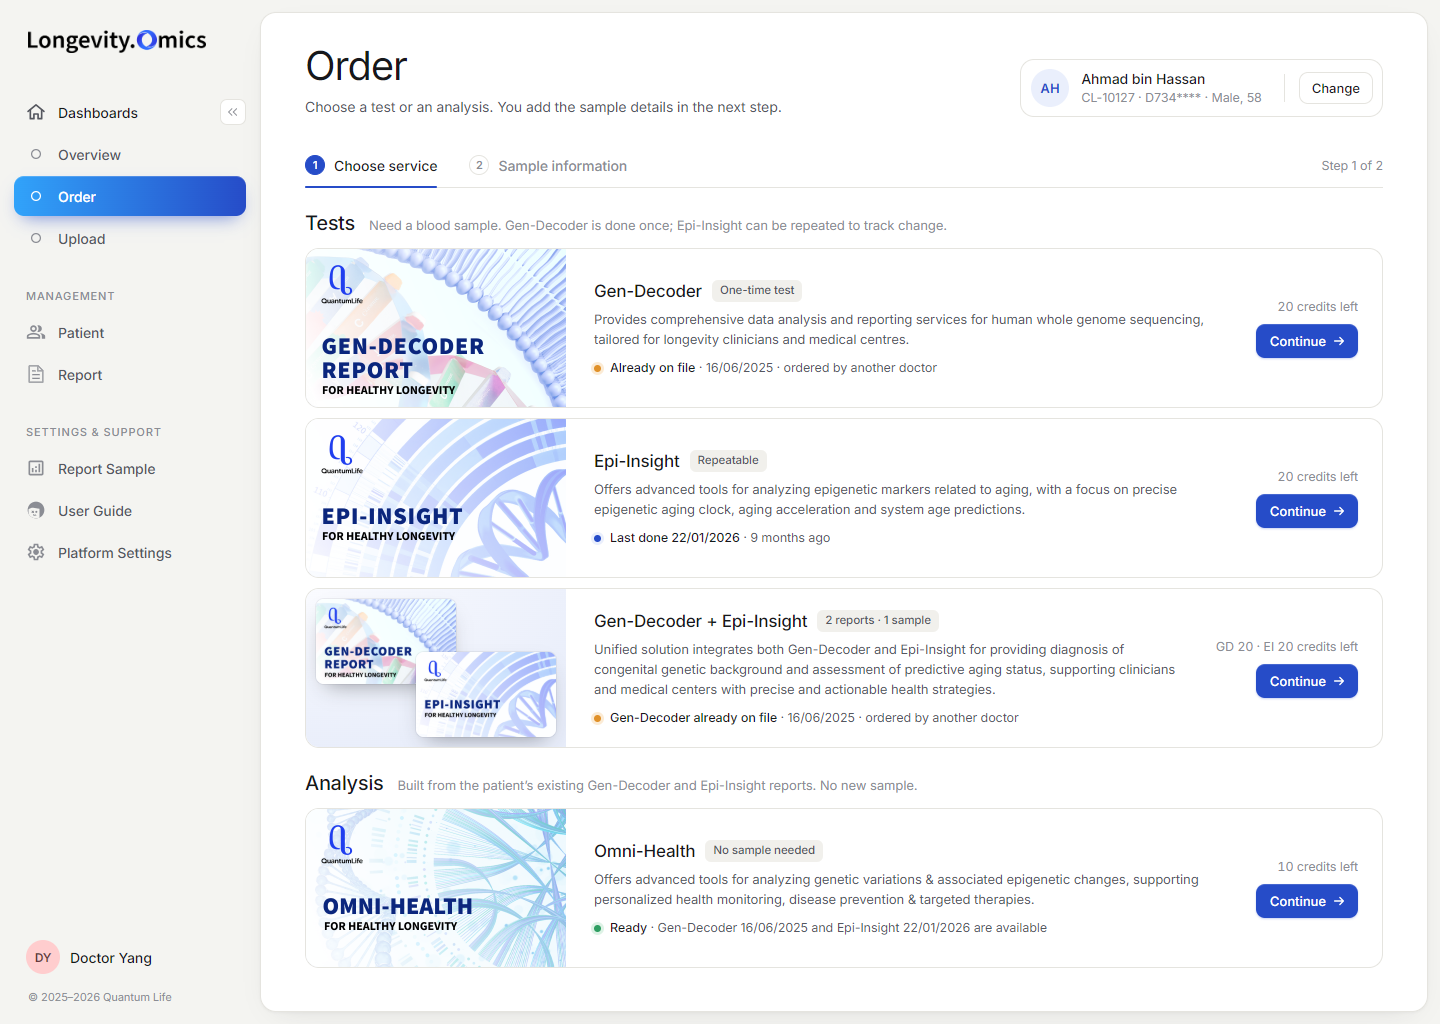
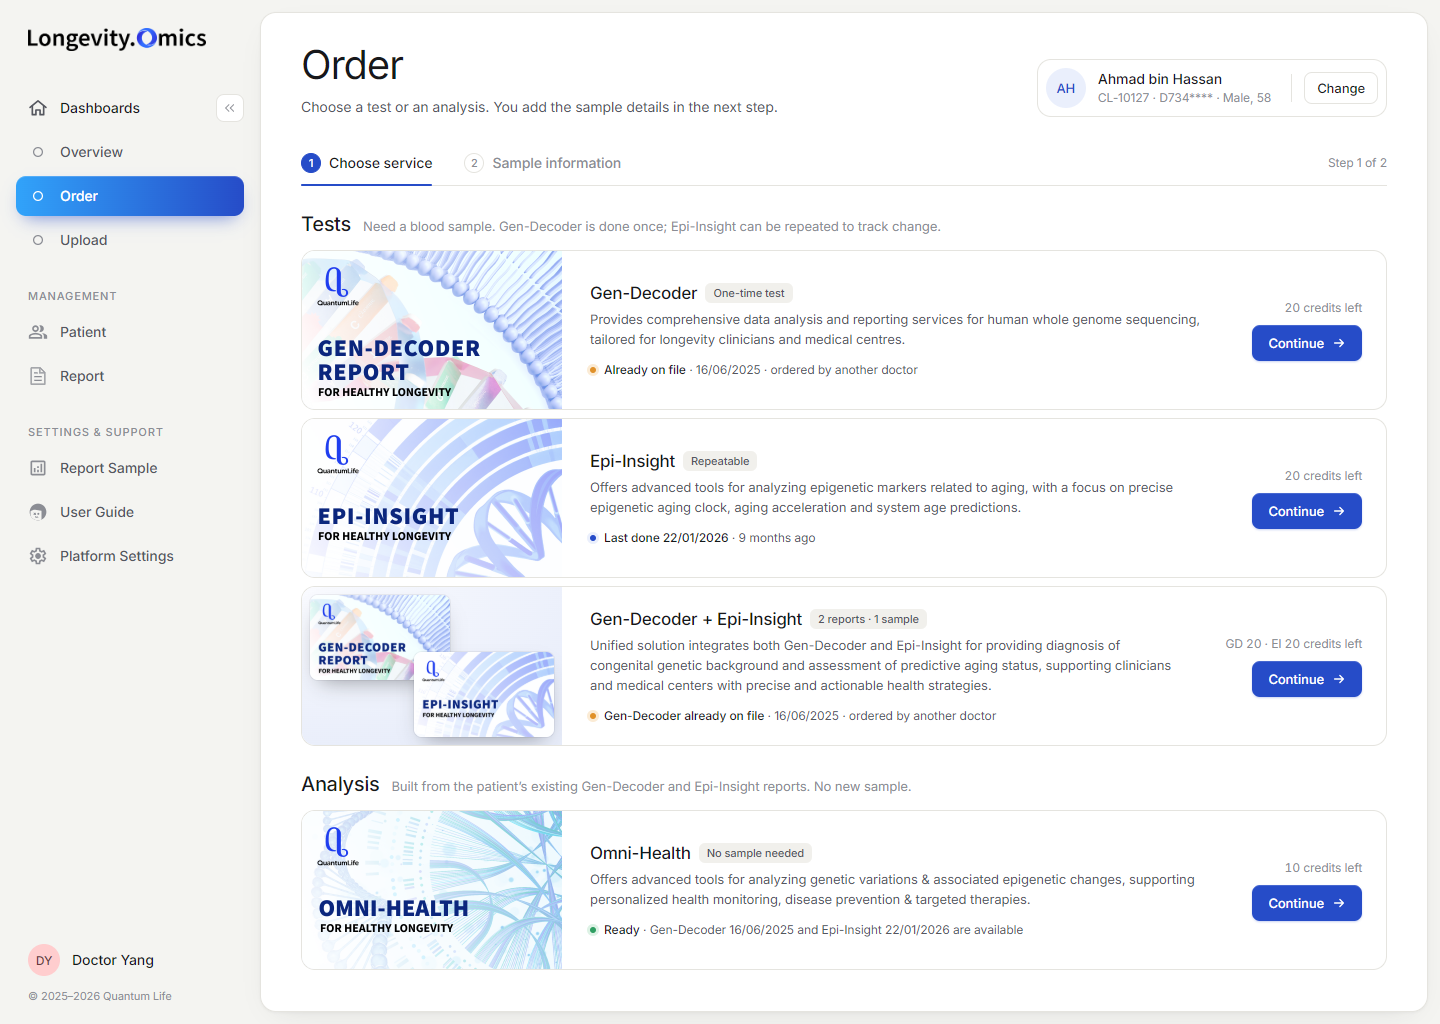
New UI: snap values to the hand-off spec scale
Spacing on a 4px grid, seven type styles, weights 400/500 only,
button and tag sizes evened out. Matches LO_New_UI_Spec v1.0 pixel for
pixel (checked against the spec's reference page).

diff --git a/index.html b/index.html
@@ -383,69 +383,71 @@ tr.other .tag{opacity:.75}
 
 /* ---------- New UI preview: static Order page (calm neutrals, hairlines, one accent) ---------- */
 body.nu-on #frame{display:none}
-.nu{--n-bg:#F4F4F1;--n-line:#E5E4DF;--n-line-2:#EEEDE9;--n-ink:#17181B;--n-ink-2:#55575F;--n-ink-3:#8B8D94;--n-panel:#F1F0EC;--n-blue-soft:#EAEFFC;background:var(--n-bg);color:var(--n-ink);letter-spacing:-.005em}
+/* Values follow LO_New_UI_Spec v1.0 (tokens.css / DESIGN_SPEC.md); change them there first */
+.nu{--n-bg:#F4F4F1;--n-line:#E5E4DF;--n-ink:#17181B;--n-ink-2:#55575F;--n-ink-3:#8B8D94;--n-panel:#F1F0EC;--n-blue-soft:#EAEFFC;background:var(--n-bg);color:var(--n-ink);letter-spacing:-.005em}
 .nu .sidebar{background:transparent}
-.nu .logo{left:28px;top:30px;width:178px}
-.nu .menu{top:90px}
-.nu .mi{height:40px;margin:2px 14px 0;padding-left:12px;border-radius:10px;font-size:14px;font-weight:500;color:var(--n-ink-2);cursor:default}
+.nu button{letter-spacing:inherit}
+.nu .logo{left:28px;top:28px;width:178px}
+.nu .menu{top:88px}
+.nu .mi{height:40px;margin:4px 16px 0;padding-left:12px;border-radius:10px;font-size:14px;line-height:20px;font-weight:500;color:var(--n-ink-2);cursor:default}
 .nu .mi:not(.head):hover{background:none}
 .nu .mi .ic{width:20px;height:20px;color:var(--n-ink-3)}
 .nu .mi .ic svg{width:20px !important;height:20px !important}
 .nu .mi .lb{margin-left:12px}
-.nu .mi.head{color:var(--n-ink)}
+.nu .mi.head{margin-top:0;color:var(--n-ink)}
 .nu .mi.head .ic{color:var(--n-ink-2)}
 .nu .mi.active,.nu .mi.active:hover{background:linear-gradient(to right,#31A3FA,#264CC8);color:#fff;box-shadow:0 8px 18px -8px rgba(38,76,200,.65),inset 0 1px 0 rgba(255,255,255,.18)}
 .nu .mi.active .ic{color:#fff}
-.nu .mi .collapse{width:26px;height:26px;margin-right:0;color:var(--n-ink-3);border:1px solid var(--n-line);border-radius:7px;background:#fff;cursor:default}
+.nu .mi .collapse{width:28px;height:28px;margin-right:0;color:var(--n-ink-3);border:1px solid var(--n-line);border-radius:8px;background:#fff;cursor:default}
 .nu .mi .collapse svg{width:14px;height:14px}
-.nu .divider{height:auto;background:none;margin:28px 14px 8px 26px}
+.nu .divider{height:auto;background:none;margin:28px 16px 8px 28px;font-size:11px;line-height:16px}
 .nu .divider span{position:static;transform:none;padding:0;background:none;font-size:11px;line-height:16px;font-weight:500;letter-spacing:.08em;color:var(--n-ink-3)}
-.nu .user{left:26px;top:auto;bottom:50px;gap:10px;cursor:default}
-.nu .user .av{width:34px;height:34px;font-size:12px;font-weight:600;color:#6B3A3C}
-.nu .user .nm{font-size:14px;font-weight:500;color:var(--n-ink)}
-.nu .copy{position:absolute;left:28px;bottom:20px;font-size:11px;color:var(--n-ink-3)}
-.nu .sheet{position:absolute;left:260px;top:12px;right:12px;bottom:12px;background:#fff;border:1px solid var(--n-line);border-radius:16px;box-shadow:0 1px 2px rgba(23,24,27,.04),0 10px 30px -18px rgba(23,24,27,.18);padding:30px 44px 0;overflow:hidden}
+.nu .user{left:28px;top:auto;bottom:48px;gap:12px;cursor:default}
+.nu .user .av{width:32px;height:32px;font-size:12px;font-weight:500;color:#6B3A3C}
+.nu .user .nm{font-size:14px;line-height:20px;font-weight:500;color:var(--n-ink)}
+.nu .copy{position:absolute;left:28px;bottom:20px;font-size:11px;line-height:16px;color:var(--n-ink-3)}
+.nu .sheet{position:absolute;left:260px;top:12px;right:12px;bottom:12px;background:#fff;border:1px solid var(--n-line);border-radius:16px;box-shadow:0 1px 2px rgba(23,24,27,.04),0 10px 30px -18px rgba(23,24,27,.18);padding:28px 40px 40px;overflow:hidden}
 .nu .hd{display:flex;align-items:flex-end;justify-content:space-between;gap:24px}
-.nu h1{font-size:40px;line-height:46px;font-weight:400;letter-spacing:-.032em;color:var(--n-ink)}
+.nu h1{font-size:40px;line-height:48px;font-weight:400;letter-spacing:-.03em;color:var(--n-ink)}
 .nu .lede{margin-top:8px;font-size:14px;line-height:20px;color:var(--n-ink-2)}
-.nu .who{display:flex;align-items:center;gap:12px;padding:9px 9px 9px 10px;border:1px solid var(--n-line);border-radius:14px}
-.nu .who .av{width:38px;height:38px;border-radius:50%;background:var(--n-blue-soft);color:var(--primary);font-size:13px;font-weight:600;letter-spacing:.02em;display:flex;align-items:center;justify-content:center}
+.nu .who{display:flex;align-items:center;gap:12px;padding:8px;border:1px solid var(--n-line);border-radius:14px}
+.nu .who .av{width:40px;height:40px;border-radius:50%;background:var(--n-blue-soft);color:var(--primary);font-size:13px;font-weight:500;display:flex;align-items:center;justify-content:center}
 .nu .who .nm{font-size:14px;line-height:20px;font-weight:500}
-.nu .who .meta{font-size:12.5px;line-height:18px;color:var(--n-ink-3)}
-.nu .who .vr{width:1px;height:28px;background:var(--n-line);margin:0 2px 0 10px}
-.nu .ghost{height:32px;padding:0 12px;border:1px solid var(--n-line);border-radius:9px;background:#fff;font-size:13px;font-weight:500;color:var(--n-ink);cursor:default}
-.nu .steps{margin-top:26px;display:flex;align-items:center;gap:32px;border-bottom:1px solid var(--n-line)}
-.nu .stp{position:relative;display:flex;align-items:center;gap:9px;height:44px;font-size:14px;font-weight:500;color:var(--n-ink-3)}
-.nu .stp .k{width:20px;height:20px;border-radius:50%;border:1px solid var(--n-line);display:flex;align-items:center;justify-content:center;font-size:11px;font-weight:600;color:var(--n-ink-3)}
+.nu .who .meta{font-size:12px;line-height:18px;color:var(--n-ink-3)}
+.nu .who .vr{width:1px;height:28px;margin-left:8px;background:var(--n-line)}
+.nu .ghost{height:32px;padding:0 12px;border:1px solid var(--n-line);border-radius:8px;background:#fff;font-size:13px;line-height:20px;font-weight:500;color:var(--n-ink);cursor:default}
+.nu .steps{margin-top:24px;display:flex;align-items:center;gap:32px;border-bottom:1px solid var(--n-line)}
+.nu .stp{position:relative;display:flex;align-items:center;gap:8px;height:44px;font-size:14px;line-height:20px;font-weight:500;color:var(--n-ink-3)}
+.nu .stp .k{width:20px;height:20px;border-radius:50%;border:1px solid var(--n-line);display:flex;align-items:center;justify-content:center;font-size:11px;line-height:16px;font-weight:500;color:var(--n-ink-3)}
 .nu .stp.on{color:var(--n-ink)}
 .nu .stp.on .k{background:var(--primary);border-color:var(--primary);color:#fff}
 .nu .stp.on::after{content:"";position:absolute;left:0;right:0;bottom:-1px;height:2px;border-radius:2px;background:var(--primary)}
-.nu .steps .aside{margin-left:auto;font-size:12.5px;color:var(--n-ink-3)}
-.nu .sec{margin-top:22px;display:flex;align-items:baseline;gap:14px}
-.nu .sec h2{font-size:20px;line-height:26px;font-weight:500;letter-spacing:-.015em}
-.nu .sec p{font-size:13px;line-height:18px;color:var(--n-ink-3)}
-.nu .list{margin-top:12px;display:flex;flex-direction:column;gap:10px}
+.nu .steps .aside{margin-left:auto;font-size:12px;line-height:18px;color:var(--n-ink-3)}
+.nu .sec{margin-top:24px;display:flex;align-items:baseline;gap:12px}
+.nu .sec h2{font-size:20px;line-height:28px;font-weight:500;letter-spacing:-.015em}
+.nu .sec p{font-size:13px;line-height:20px;color:var(--n-ink-3)}
+.nu .list{margin-top:12px;display:flex;flex-direction:column;gap:8px}
 .nu .row{display:flex;min-height:160px;border:1px solid var(--n-line);border-radius:14px;overflow:hidden;background:#fff}
 .nu .media{position:relative;flex:none;width:260px;overflow:hidden;background:radial-gradient(130% 110% at 0% 0%,#FAFBFF 0%,#E8EDFA 100%)}
 .nu .media > img{display:block;width:100%;height:100%;object-fit:cover}
 .nu .pair img{position:absolute;width:140px;height:85px;object-fit:cover;border-radius:8px;box-shadow:0 0 0 1px rgba(23,24,27,.06),0 10px 22px -10px rgba(23,24,27,.45)}
-.nu .pair img:first-child{left:10px;top:10px}
-.nu .pair img:last-child{right:10px;bottom:10px}
-.nu .rb{flex:1;min-width:0;display:flex;align-items:center;gap:40px;padding:18px 24px 18px 28px}
+.nu .pair img:first-child{left:8px;top:8px}
+.nu .pair img:last-child{right:8px;bottom:8px}
+.nu .rb{flex:1;min-width:0;display:flex;align-items:center;gap:40px;padding:20px 24px 20px 28px}
 .nu .tx{flex:1;min-width:0;max-width:610px}
-.nu .tt{display:flex;align-items:center;gap:10px}
-.nu .tt h3{font-size:17px;line-height:24px;font-weight:500;letter-spacing:-.012em}
-.nu .tag{height:22px;padding:0 8px;display:inline-flex;align-items:center;border-radius:6px;background:#F1F0EC;font-size:11.5px;font-weight:500;color:var(--n-ink-2);white-space:nowrap}
-.nu .tx p{margin-top:6px;font-size:13px;line-height:20px;color:var(--n-ink-2)}
-.nu .st{margin-top:10px;display:flex;align-items:flex-start;gap:9px;font-size:12.5px;line-height:18px;color:var(--n-ink-2)}
-.nu .st i{flex:none;width:7px;height:7px;margin-top:5.5px;border-radius:50%}
+.nu .tt{display:flex;align-items:center;gap:8px}
+.nu .tt h3{font-size:17px;line-height:24px;font-weight:500;letter-spacing:-.015em}
+.nu .tag{height:20px;padding:0 8px;display:inline-flex;align-items:center;border-radius:6px;background:var(--n-panel);font-size:11px;line-height:16px;font-weight:500;color:var(--n-ink-2);white-space:nowrap}
+.nu .tx p{margin-top:4px;font-size:13px;line-height:20px;color:var(--n-ink-2)}
+.nu .st{margin-top:12px;display:flex;align-items:flex-start;gap:8px;font-size:12px;line-height:18px;color:var(--n-ink-2)}
+.nu .st i{flex:none;width:6px;height:6px;margin-top:6px;border-radius:50%}
 .nu .st b{font-weight:500;color:var(--n-ink)}
 .nu .st.warn i{background:#E0912A;box-shadow:0 0 0 3px #FBEBD5}
 .nu .st.info i{background:var(--primary);box-shadow:0 0 0 3px var(--n-blue-soft)}
 .nu .st.ok i{background:#2F9E62;box-shadow:0 0 0 3px #DDF2E5}
-.nu .ac{margin-left:auto;flex:none;display:flex;flex-direction:column;align-items:flex-end;gap:10px}
-.nu .cost{font-size:12.5px;color:var(--n-ink-3);font-variant-numeric:tabular-nums}
-.nu .cta{height:34px;padding:0 12px 0 14px;display:inline-flex;align-items:center;gap:6px;border:0;border-radius:9px;background:var(--primary);color:#fff;font-size:13px;font-weight:500;cursor:default;box-shadow:0 1px 2px rgba(38,76,200,.25),inset 0 1px 0 rgba(255,255,255,.15)}
+.nu .ac{margin-left:auto;flex:none;display:flex;flex-direction:column;align-items:flex-end;gap:8px}
+.nu .cost{font-size:12px;line-height:18px;color:var(--n-ink-3);font-variant-numeric:tabular-nums}
+.nu .cta{height:36px;padding:0 16px;display:inline-flex;align-items:center;gap:8px;border:0;border-radius:8px;background:var(--primary);color:#fff;font-size:13px;line-height:20px;font-weight:500;cursor:default;box-shadow:0 1px 2px rgba(38,76,200,.25),inset 0 1px 0 rgba(255,255,255,.15)}
 .nu .cta svg{width:14px;height:14px}
 </style>
 </head>
